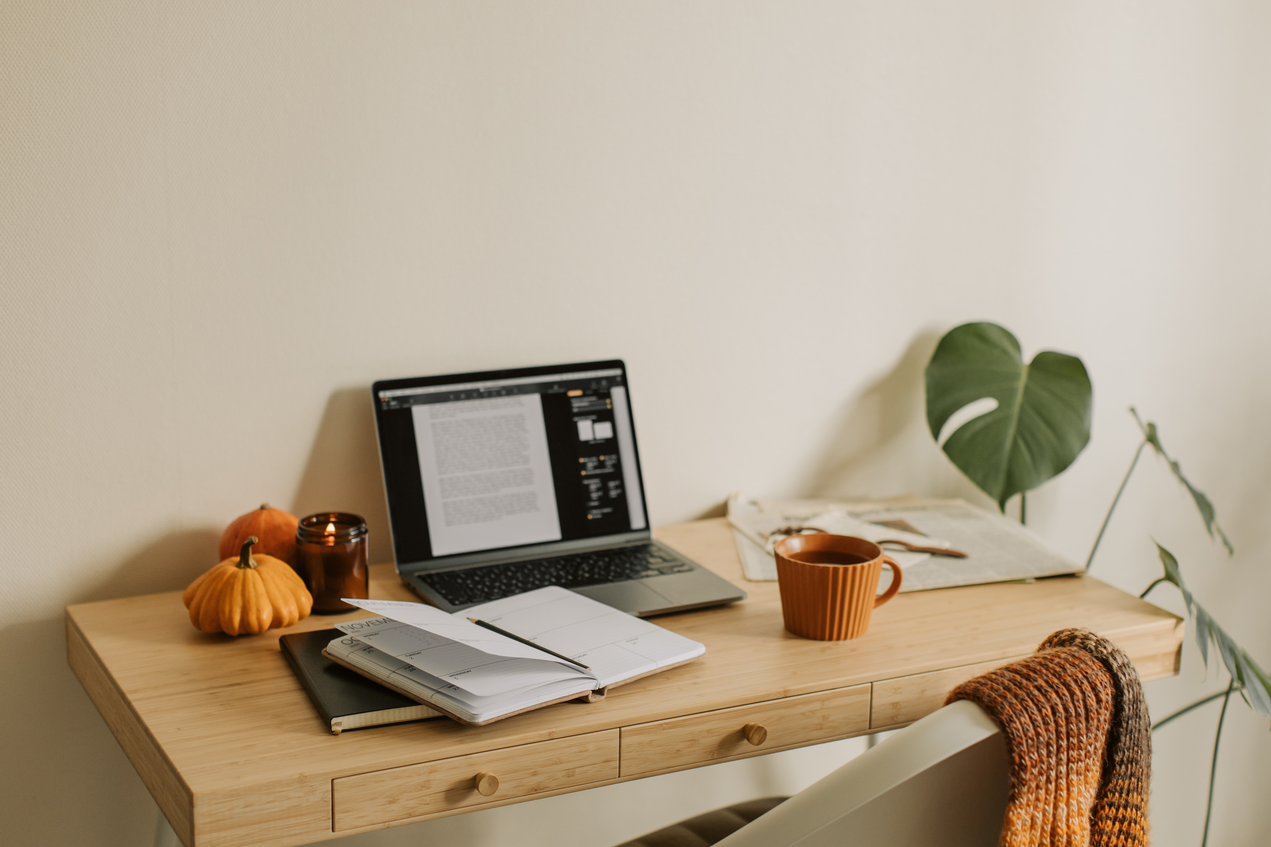
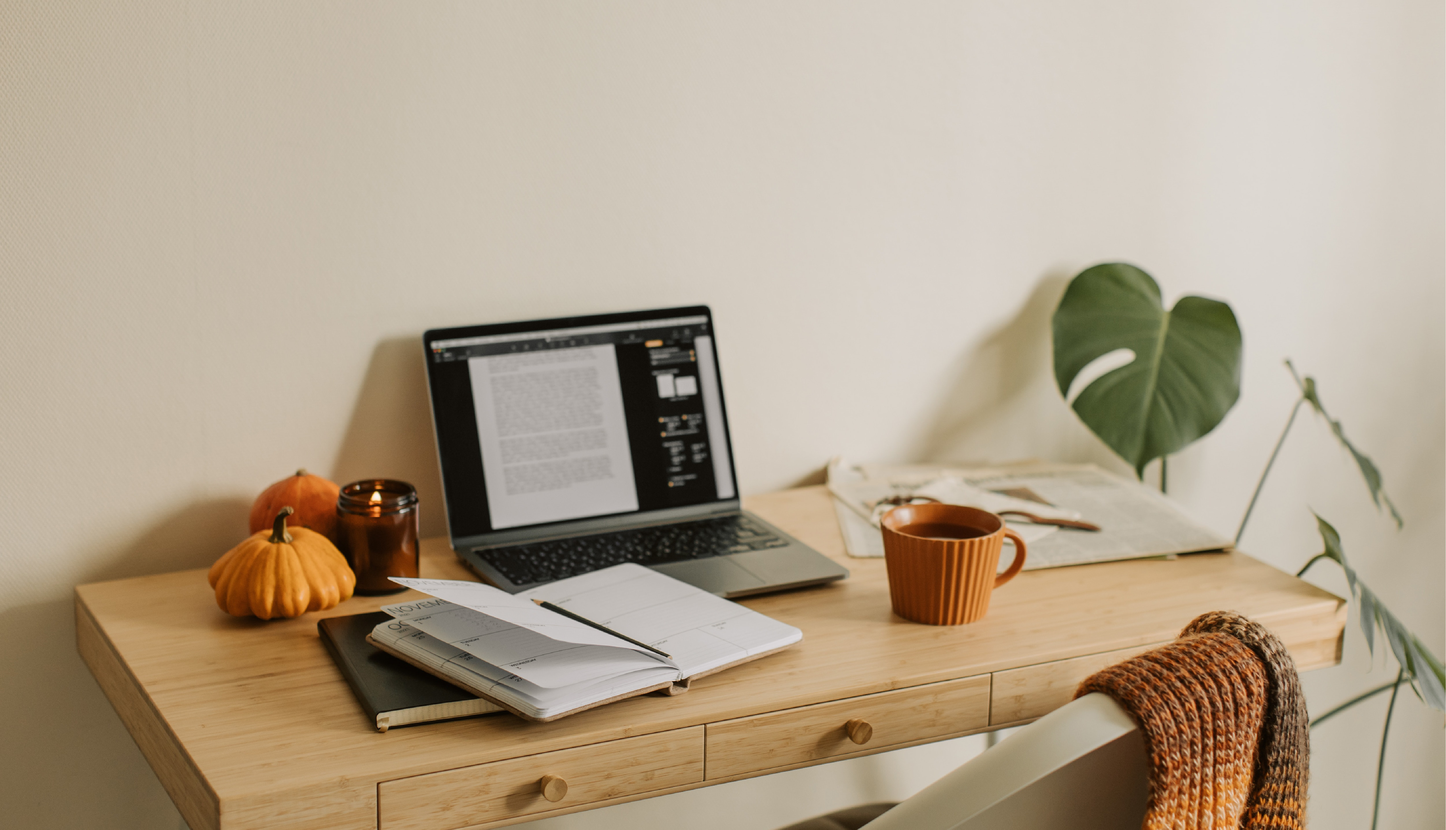
header & nav / background setting
p.180 - p.192

Changed region(s): [[0.0312, 0.3121, 1.0, 1.0], [0.0935, 0.8115, 0.1559, 1.0], [0.4053, 0.7491, 0.4365, 0.7803]]

diff --git a/Sophie/HTML/index.html b/Sophie/HTML/index.html
@@ -3,21 +3,45 @@
     <head>
         <meta charset="utf-8">
         <title>共同導讀｜RSC2gether</title>
-        <link rel="icon" type="image/x-icon" href="/Web-demo/Sophie/images/favicon.ico">
+        <link rel="icon" type="image/x-icon" href="/images/favicon.ico">
         <meta name="description" content="臺灣讀書會第一品牌">
 
     <!--CSS-->
         <link rel="stylesheet" href="https://unpkg.com/ress/dist/ress.min.css">
+        <!--google font-->
         <link rel="preconnect" href="https://fonts.googleapis.com">
         <link rel="preconnect" href="https://fonts.gstatic.com" crossorigin>
+        <link href="https://fonts.googleapis.com/css2?family=Noto+Sans+TC:wght@100&display=swap" rel="stylesheet">  
         <link href="https://fonts.googleapis.com/css2?family=Noto+Sans+TC:wght@100&family=Raleway:wght@100&display=swap" rel="stylesheet">
-        <link href="Sophie/CSS/style.css" rel="stylesheet">
+        
+        <link href="/CSS/style.css" rel="stylesheet">
 
     </head>
 
     <body>
 
+        <div id="home" class="big-bg">
+            <header class="page-header wrapper">
+                <h1>
+                    <a href="index.html">
+                        <img class="logo" src="/images/logo-test.png" alt="共同導讀｜RSC2gether 首頁"/>
+                    </a>
+                </h1>
+                <nav>
+                    <ul class="main-nav a:hover">
+                        <li><a href="booklist.html">書單</a></li>
+                        <li><a href="blog.html">書摘專欄</a></li>
+                        <li><a href="about.html">About</a></li>
+                        <li><a href="readers.html">Readers</a></li>
+                        <li><a href="join.html">Join us</a></li>
+                    </ul>
+                </nav>
+            </header>
 
+            <div>
+                <h2 class="page-title">在分享中見山、見海、見自己。</h2>
+            </div>
+        </div>
     </body>
 
 </html>

diff --git a/Sophie/CSS/style.css b/Sophie/CSS/style.css
@@ -1,0 +1,82 @@
+@charset "utf-8"
+
+/* 共通部分 */
+
+html{
+    font-size: 100%;
+}
+
+body{
+    font-family: 'Noto Sans TC', sans-serif;
+    line-height: 1.7;
+    color: #606060;
+}
+
+a{
+    text-decoration: none;
+}
+
+img{
+    max-width: 100%;
+}
+
+/* header */
+
+    /* 將Logo、nav 水平排列 */
+    .page-header{
+        display: flex;
+        justify-content: space-between;
+    }
+
+    /* Logo、nav 自動調節與邊界的距離 */
+    .wrapper{
+        max-width: auto;
+        margin: 0 auto;
+        padding: 0 4%;
+    }
+
+    .logo{
+        width: 120px;
+        margin-top: 6px;
+    }
+
+    .main-nav{
+        display: flex;
+        font-size: 1.2rem;
+        text-transform: uppercase;
+        margin-top: 28px;
+        list-style: none;
+    }
+
+    .main-nav li{
+        margin-left: 30px;
+    }
+
+    .main-nav a{
+        color: #606060;
+
+    }
+
+    /* ":hover" 滑鼠指向超連結會變色 */
+    .main-nav a:hover{
+        color:#ffffff
+    }
+
+/* 背景圖＋標題文字 */
+
+    /* 用 ID 加入圖片 URL */
+    #home{
+        background-image: url(/images/index-bg.jpg);
+        min-height: 100vh;
+    }
+    /* 滿版圖片 */
+    .big-bg{
+        background-size: cover;
+        background-position: center top;
+        background-repeat: no-repeat;
+    }
+    .page-title{
+        text-align: center;
+        margin-top: 2%;
+        color: #606060;
+    }
